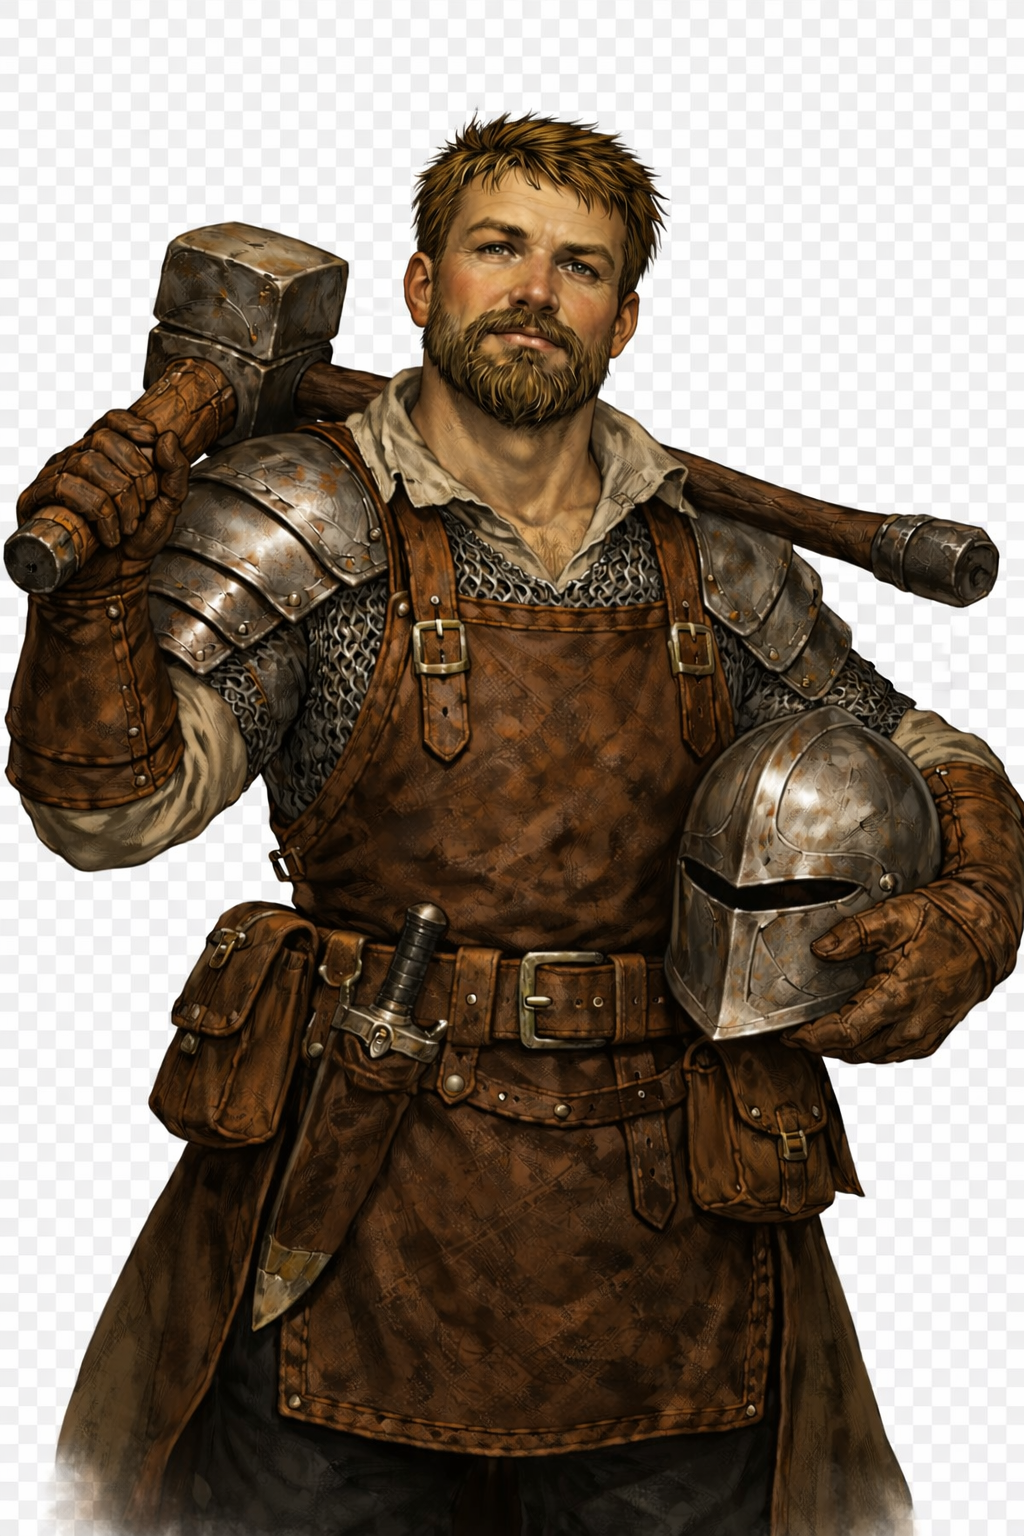
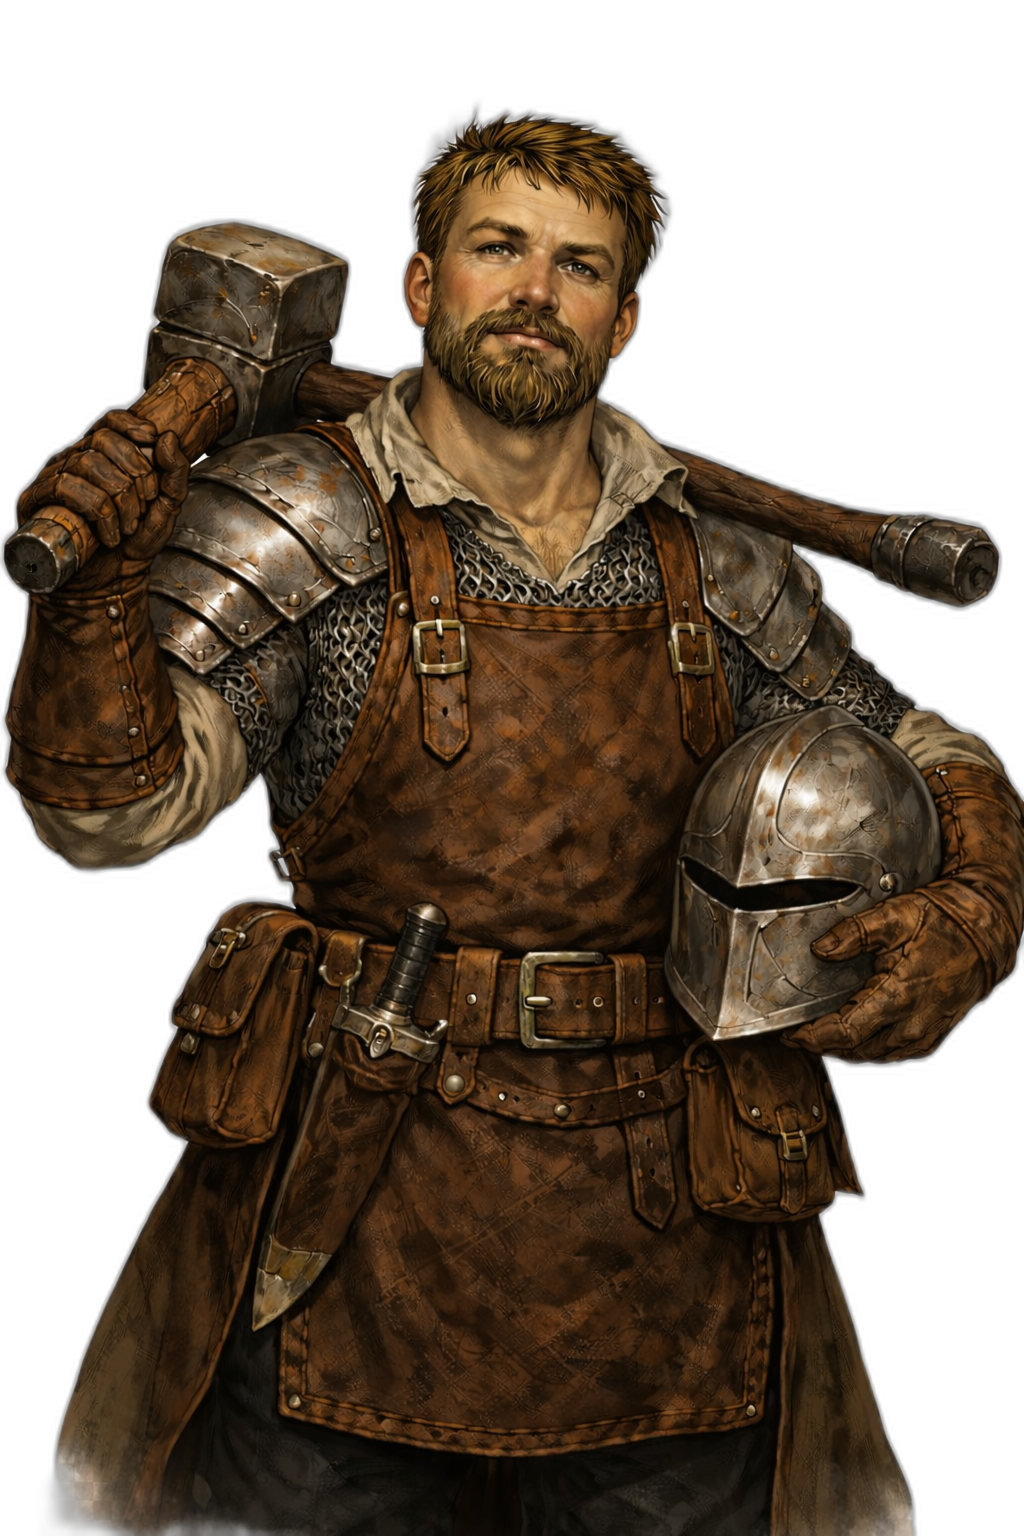
Fix portrait assignments and remove bram.png background
- Bram: removed remaining white/gray background via rembg
- Captain Elric: now uses Guard_captain.png instead of wizard portrait
- Injured Guard event: now uses Guard-1.png instead of Elric's portrait

diff --git a/js/chapter1.js b/js/chapter1.js
@@ -30,7 +30,7 @@ var Chapter1 = (function () {
     },
     elric: {
       id: "elric", name: "Captain Elric Vale",
-      portrait: "assets/portraits/elric.png",
+      portrait: "assets/portraits/Guard_captain.png",
       role: "Town Guard Captain", personality: "Overworked, honorable, suspicious of outsiders."
     },
     elira: {
@@ -1163,20 +1163,20 @@ var Chapter1 = (function () {
       repeatable: true,
       location: "town",
       npcName: "Injured Guard",
-      npcPortrait: "assets/portraits/elric.png",
+      npcPortrait: "assets/portraits/Guard-1.png",
       poiPosition: "top:55%;right:15%",
       poiSub: "Looks wounded",
       dialogue: {
         id: "town-event-guard",
         nodes: [
-          { speaker: "Injured Guard", portrait: "assets/portraits/elric.png", text: "Ambushed... on the east road. Three of them came out of nowhere." },
-          { speaker: "Injured Guard", portrait: "assets/portraits/elric.png", text: "The goblins are getting bolder. They hit our patrol just a mile from the gates. We barely got away." },
+          { speaker: "Injured Guard", portrait: "assets/portraits/Guard-1.png", text: "Ambushed... on the east road. Three of them came out of nowhere." },
+          { speaker: "Injured Guard", portrait: "assets/portraits/Guard-1.png", text: "The goblins are getting bolder. They hit our patrol just a mile from the gates. We barely got away." },
           { speaker: "", portrait: "", text: "The guard is bleeding from a gash on his arm.", choices: [
             { text: "Rest easy. I'll deal with the goblins.", next: 3 },
             { text: "Get to Mira's shop. She can patch you up.", next: 4 }
           ]},
-          { speaker: "Injured Guard", portrait: "assets/portraits/elric.png", text: "Thank you, adventurer. Captain Elric will want to hear about this. Be careful out there.", end: true },
-          { speaker: "Injured Guard", portrait: "assets/portraits/elric.png", text: "Good thinking. I'll head there now. Watch yourself, they're not just scouts anymore, these ones fought like soldiers.", end: true }
+          { speaker: "Injured Guard", portrait: "assets/portraits/Guard-1.png", text: "Thank you, adventurer. Captain Elric will want to hear about this. Be careful out there.", end: true },
+          { speaker: "Injured Guard", portrait: "assets/portraits/Guard-1.png", text: "Good thinking. I'll head there now. Watch yourself, they're not just scouts anymore, these ones fought like soldiers.", end: true }
         ],
         onEnd: { flags: ["townEventGuard"] }
       }
